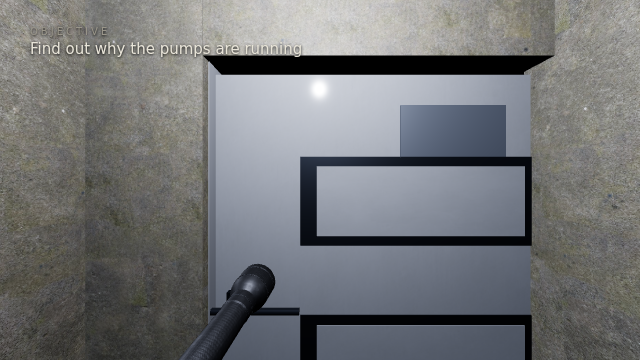
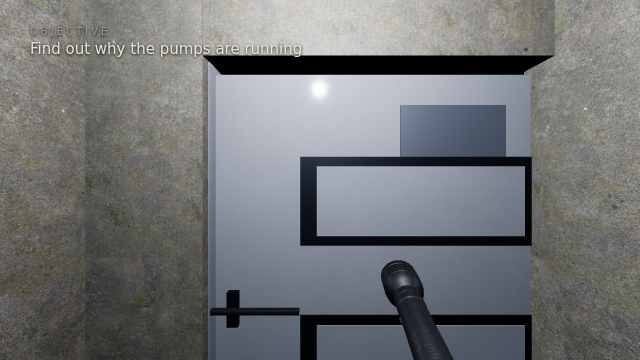
Torch to right hand + beam frame-fix (centered at view) + N-screenshot viewer for iframe-blocked downloads
- torch viewmodel + lamp origin moved to RIGHT hand (+0.17/+0.15;
  user-directed after left-hand trial)
- BEAM BUG (user-reported: light sat off-centre/behind, only moved when
  rotating): lampTarget.position is CAMERA-LOCAL but was being set from a
  WORLD-space forward direction (mixed frames) — only true at yaw 0, swung
  sideways/backwards as you turned. Now targets camera-local (0,0,-6):
  beam converges at view centre. Verified: off-axis angle constant 2.3deg
  across yaw 0/1.2/2.5/4.0 (was yaw-dependent)
- N screenshot: preview iframes silently block <a download> — N now ALSO
  opens an in-game viewer with the PNG, a Save PNG retry button, and a
  right-click 'Save image as...' hint; N toggles it closed

verify_world 16/16 + critical_path 40/40 on the shipped bundle

Changed region(s): [[0.2812, 0.7333, 0.4375, 1.0], [0.5938, 0.7028, 0.7188, 1.0]]

diff --git a/game/src/main.js b/game/src/main.js
@@ -176,6 +176,9 @@ class Game {
   // Debug mode (Options -> DEBUG, human QA loop): save exactly what the
   // player sees as a PNG download. Render + readback in the SAME task so
   // toDataURL is valid without preserveDrawingBuffer (QA-proven pattern).
+  // If the preview iframe blocks programmatic downloads, an in-game viewer
+  // opens with the image so it can be saved via right-click (user-reported:
+  // "N didn't save to Downloads").
   debugSnapshot() {
     this.renderer.render(this.scene, this.camera);
     const url = this.renderer.domElement.toDataURL("image/png");
@@ -189,7 +192,51 @@ class Game {
     document.body.appendChild(a);
     a.click();
     a.remove();
-    this.hud.toast(`DEBUG — saved ${name}`);
+    this.hud.toast(`DEBUG — captured ${name}`);
+    this._debugShotViewer(url, name);
+  }
+
+  // Screenshot viewer: shown alongside the download attempt. In sandboxed
+  // iframes <a download> is silently blocked — the Save button retries, and
+  // right-clicking the image always works. N or the button closes it.
+  _debugShotViewer(url, name) {
+    this._closeDebugShot();
+    const d = document.createElement("div");
+    d.id = "debugshot";
+    d.style.cssText = "position:fixed;inset:0;z-index:400;background:rgba(4,6,10,.92);display:flex;flex-direction:column;align-items:center;justify-content:center;gap:10px;font:13px system-ui;color:#cfd6e4";
+    const img = document.createElement("img");
+    img.src = url;
+    img.style.cssText = "max-width:92vw;max-height:72vh;border:1px solid #4a5568;box-shadow:0 0 30px #000";
+    img.title = name;
+    const row = document.createElement("div");
+    row.style.cssText = "display:flex;gap:10px";
+    const mk = (label, fn) => {
+      const b = document.createElement("button");
+      b.textContent = label;
+      b.style.cssText = "padding:7px 14px;background:#232a38;border:1px solid #4a5568;color:#e8edf6;border-radius:4px;cursor:pointer";
+      b.onclick = fn;
+      return b;
+    };
+    const save = mk("Save PNG", () => {
+      const a = document.createElement("a");
+      a.href = url;
+      a.download = name;
+      document.body.appendChild(a);
+      a.click();
+      a.remove();
+    });
+    const close = mk("Close (N)", () => this._closeDebugShot());
+    row.append(save, close);
+    const hint = document.createElement("div");
+    hint.style.cssText = "opacity:.75;max-width:80vw;text-align:center;line-height:1.5";
+    hint.textContent = `${name} — if Save does nothing (preview iframe blocks downloads), right-click the image → "Save image as…", or open this page in its own browser tab.`;
+    d.append(img, row, hint);
+    document.body.appendChild(d);
+    this._debugShotEl = d;
+  }
+
+  _closeDebugShot() {
+    if (this._debugShotEl) { this._debugShotEl.remove(); this._debugShotEl = null; }
   }
 
   // Debug mode: wireframe boxes for every active collider, color-coded
@@ -581,7 +628,10 @@ class Game {
     // human-QA debug mode (Options -> DEBUG): N saves a screenshot of the
     // current view as a PNG download; B toggles collider wireframe boxes.
     if (this.started && this.settings.data.debugMode && !this.menus.open) {
-      if (this.input.wasPressed("DEBUG_SHOT")) this.debugSnapshot();
+      if (this.input.wasPressed("DEBUG_SHOT")) {
+        if (this._debugShotEl) this._closeDebugShot(); // N toggles the viewer closed
+        else this.debugSnapshot();
+      }
       if (this.input.wasPressed("DEBUG_COLLIDERS")) this.debugColliders();
     }
     if (this.hud.noteOpen && this.input.wasPressed("INTERACT")) {

diff --git a/game/src/player/player.js b/game/src/player/player.js
@@ -45,7 +45,7 @@ export class Player {
     this.lampTarget = new THREE.Object3D();
     this.camera.add(this.lamp);
     this.camera.add(this.lampTarget);
-    this.lamp.position.set(-0.15, -0.2, 0.1); // beam origin at the torch (left-of-center, matches the viewmodel)
+    this.lamp.position.set(0.15, -0.2, 0.1); // beam origin at the torch (right hand, matches the viewmodel)
     this.lamp.target = this.lampTarget;
 
     // viewmodel lamp body
@@ -63,7 +63,7 @@ export class Player {
     head.rotation.x = Math.PI / 2.4;
     head.position.set(0, 0.115, -0.085);
     vm.add(head);
-    vm.position.set(-0.17, -0.26, -0.42); // left-of-center (user-directed; was right at +0.26)
+    vm.position.set(0.17, -0.26, -0.42); // RIGHT hand (user-directed 2026-09-07; left trial rejected)
     vm.rotation.set(0.1, -0.12, 0.05);
     this.camera.add(vm);
     this.vmLamp = vm;
@@ -311,9 +311,14 @@ export class Player {
       this._vmBase.z + Math.cos(t * 0.45) * 0.004 * idle
     );
     this.vmLamp.rotation.z = Math.sin(t * 0.5) * 0.01 * idle;
-    // lamp aims where camera aims
-    const fwd = new THREE.Vector3(0, 0, -1).applyEuler(this.camera.rotation);
-    this.lampTarget.position.copy(fwd.multiplyScalar(6)).add(this.lamp.position);
+    // lamp aims where the camera looks. FRAME FIX (user-reported: beam sat off
+    // centre / behind and only moved when the player rotated): the old code
+    // wrote a WORLD-space forward direction into lampTarget.position, which is
+    // CAMERA-LOCAL (the target is a child of the camera) — a mixed-frames bug
+    // that only pointed true at yaw 0 and swung the beam sideways/backwards as
+    // you turned. Camera-local forward is simply -Z: aim at a point on the
+    // view axis so the beam pool converges at the centre of the screen.
+    this.lampTarget.position.set(0, 0, -6);
   }
 
   eyePosition() {
